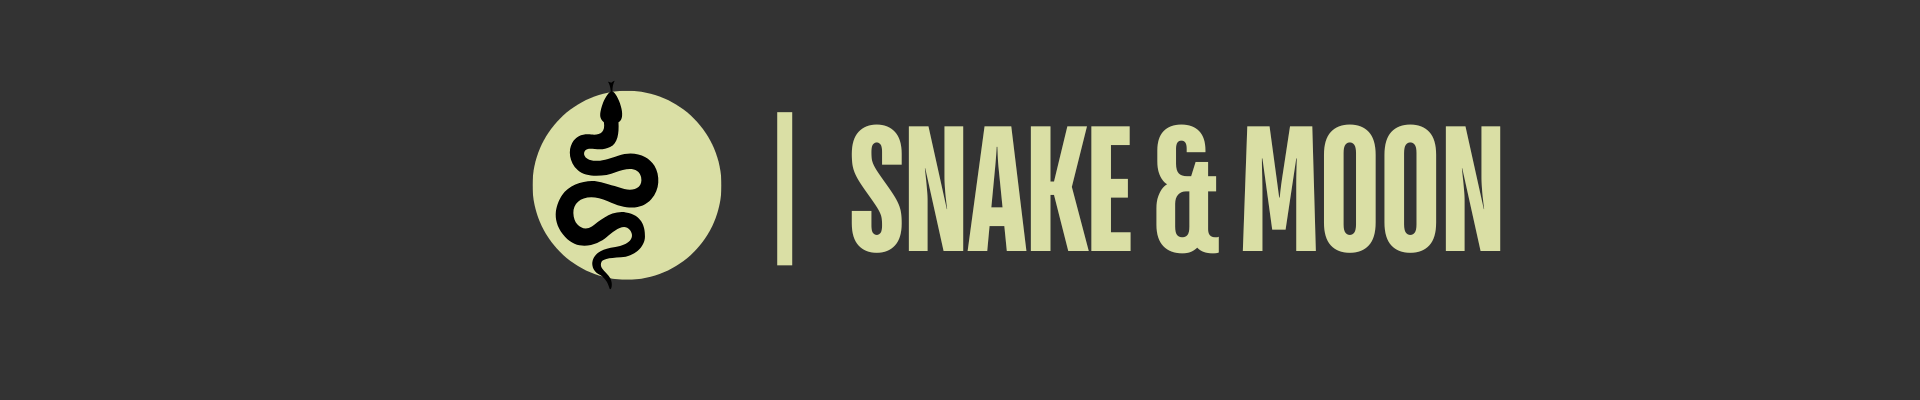
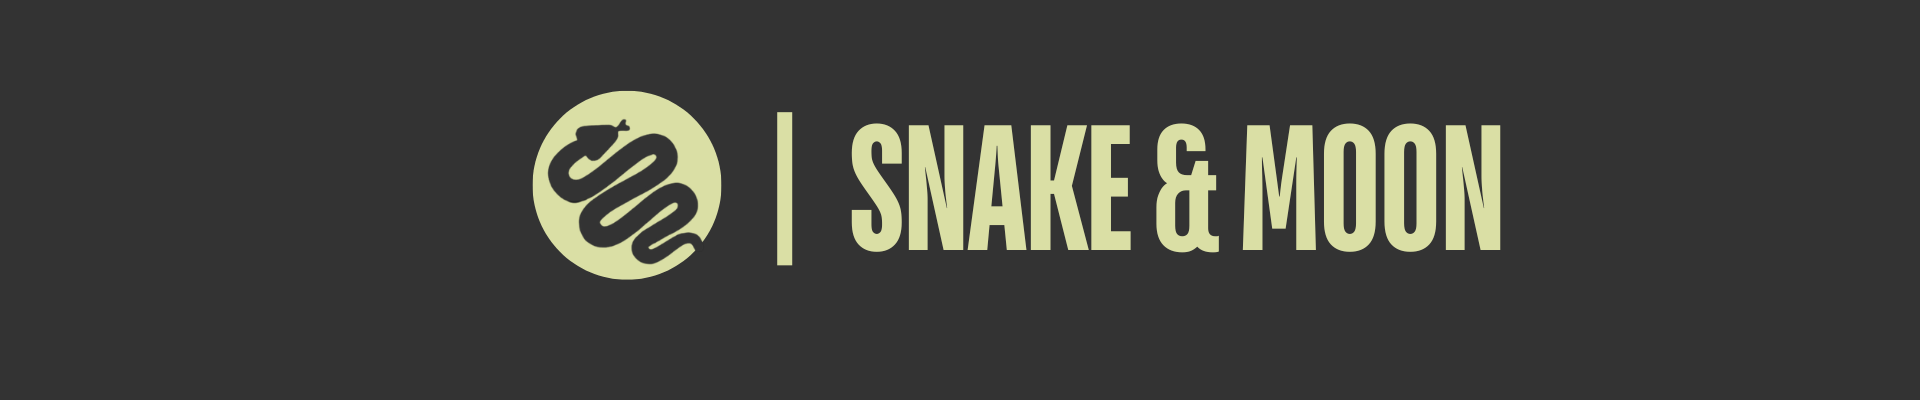
more visual branding work

diff --git a/branding/moodboard.html b/branding/moodboard.html
@@ -17,7 +17,23 @@
 <link rel="stylesheet" href="assets/styles/formatting.css" />
 </head>
 <body>
+
 <header class="navbar" role="banner">
+
+<!-- Logo / Business Name -->
+<a href="/" class="navbar-brand">
+<span class="logo-icon"><img class='logo' src='assets/graphics/snake.png' /></span>
+<span></span>
+</a>
+
+<!-- Desktop Navigation -->
+<ul class="nav-links">
+<li><a href="/#home">home  </a></li>
+<li><a href="/#services">research domains</a></li>
+<li><a href="/#reviews">who we serve</a></li>
+<li><a href="/#blog">publications</a></li>
+<li><a href="/#blog">contact us</a></li>
+</ul>
 
 <!-- Mobile Hamburger using <details> -->
 <details class="hamburger-wrapper">
@@ -56,12 +72,12 @@
 </section>
 <section id="two" class="green">
 
-<h2>Research Domains</h2>
+<h2>Geoeconomics in Emerging Tech Markets</h2>
 
-<h3>1. GLOBAL FINANCE &amp; PAYMENT SYSTEMS</h3>
+<h3>GLOBAL FINANCE &amp; PAYMENT SYSTEMS</h3>
 <p>The dollar-dominated financial order is fracturing. BRICS Pay, digital currencies, bilateral swap lines, and development banks are creating parallel infrastructure.</p>
 <p><strong>We analyze:</strong></p>
-<ul>
+<ul style="padding:1em 2em;">
     <li>BRICS Pay architecture and adoption pathways.</li>
     <li>The New Development Bank's role in African infrastructure finance.</li>
     <li>Payment system fragmentation and regulatory arbitrage.</li>
@@ -85,9 +101,9 @@
         </div><!--end content-->
     </div><!--end main-->
     <div class="footer1">
-        <div class="box">contact us</div>
-        <div class="box">social media</div>
-        <div class="box">submenu</div>
+        <div class="box"></div>
+        <div class="box">Want to keep in touch? Join our newsletter</div>
+        <div class="box"></div>
     </div>
     <div class="footer2">
         <div class="box">contact us</div>
@@ -95,9 +111,9 @@
         <div class="box">submenu</div>
     </div>
     <div class="footer3">
-        <div class="box">contact us</div>
-        <div class="box">social media</div>
-        <div class="box">submenu</div>
+        <div class="box">copyright</div>
+        <div class="box"></div>
+        <div class="box">date/time</div>
     </div>
 </body>
 </html>

diff --git a/branding/assets/styles/navbar.css b/branding/assets/styles/navbar.css
@@ -14,8 +14,7 @@
 /* ---------- NAVBAR ---------- */
 .navbar {
     background: #222222;
-    color: #EEEBDA
-    padding: 0.6rem 1.5rem;
+    color: #EEEBDA;
     position: sticky;
     top: 0;
     z-index: 100;
@@ -55,16 +54,15 @@
 .nav-links {
     display: none;
     list-style: none;
-    gap: 1.75rem;
+    gap: 1rem;
     align-items: center;
-    margin: 0;
-    padding: 0;
+    margin-left: auto;
 }
 
 .nav-links a {
     color: #EEEBDA;
     text-decoration: none;
-    font-size: 0.95rem;
+    font-size: 0.75rem;
     font-weight: 450;
     padding: 0.3rem 0.1rem;
     position: relative;
@@ -74,17 +72,18 @@
 .nav-links a::after {
     content: '';
     position: absolute;
-    bottom: -2px;
+    bottom: -10px;
     left: 0;
     width: 0;
-    height: 2px;
-    background: #ffffff;
+    height: 1px;
+    background: #DADFA5;
     transition: width 0.25s ease;
 }
 
 .nav-links a:hover {
-    color: #ffffff;
+    color: #DADFA5;
 }
+
 
 .nav-links a:hover::after {
     width: 100%;
@@ -244,7 +243,7 @@
     }
 
     .navbar {
-        padding: 0.6rem 2.5rem;
+        padding: 0rem 2.5rem;
         min-height: 60px;
     }
 

diff --git a/branding/assets/styles/branding.css b/branding/assets/styles/branding.css
@@ -16,6 +16,10 @@ body {
     margin-bottom:2em;
 }
 
+.green h3, .cream h3 {
+    color:#88116D;
+}
+
 .cream {
     background:#EEEBDA;
     color:#1A4761;
@@ -67,19 +71,19 @@ body {
 .content {
 }
 
-.footer2 {
-    background:#444444;
+.footer1 {
+    background:#DADFA5;
+    color:#1A4761;
     padding: 2em;
-    color:#EEEBDA;
     display: flex;
     justify-content: center; /* Centers items horizontally */
     align-items: center;     /* Centers items vertically (optional) */
     gap: 10px;
 }
 
-.footer1 {
-    background:#666666;
-    color:#EEEBDA;
+.footer2 {
+    background:#1A4761;
+    color:#DADFA5;
     padding:2em;
     display: flex;
     justify-content: center; /* Centers items horizontally */
@@ -89,8 +93,8 @@ body {
 
 .footer3 {
     background:#222222;
-    padding: 2em;
     color:#EEEBDA;
+    padding:10px 0px;
     display: flex;
     justify-content: center; /* Centers items horizontally */
     align-items: center;     /* Centers items vertically (optional) */
